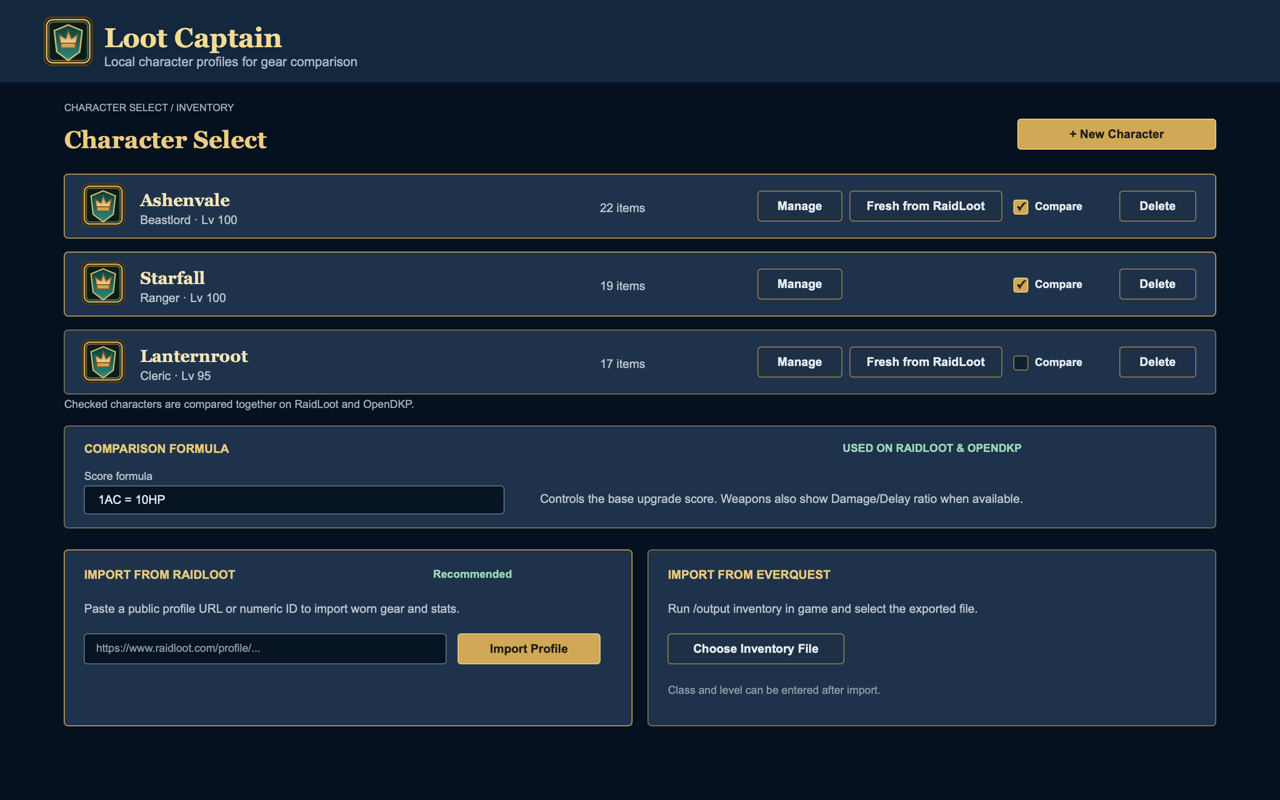
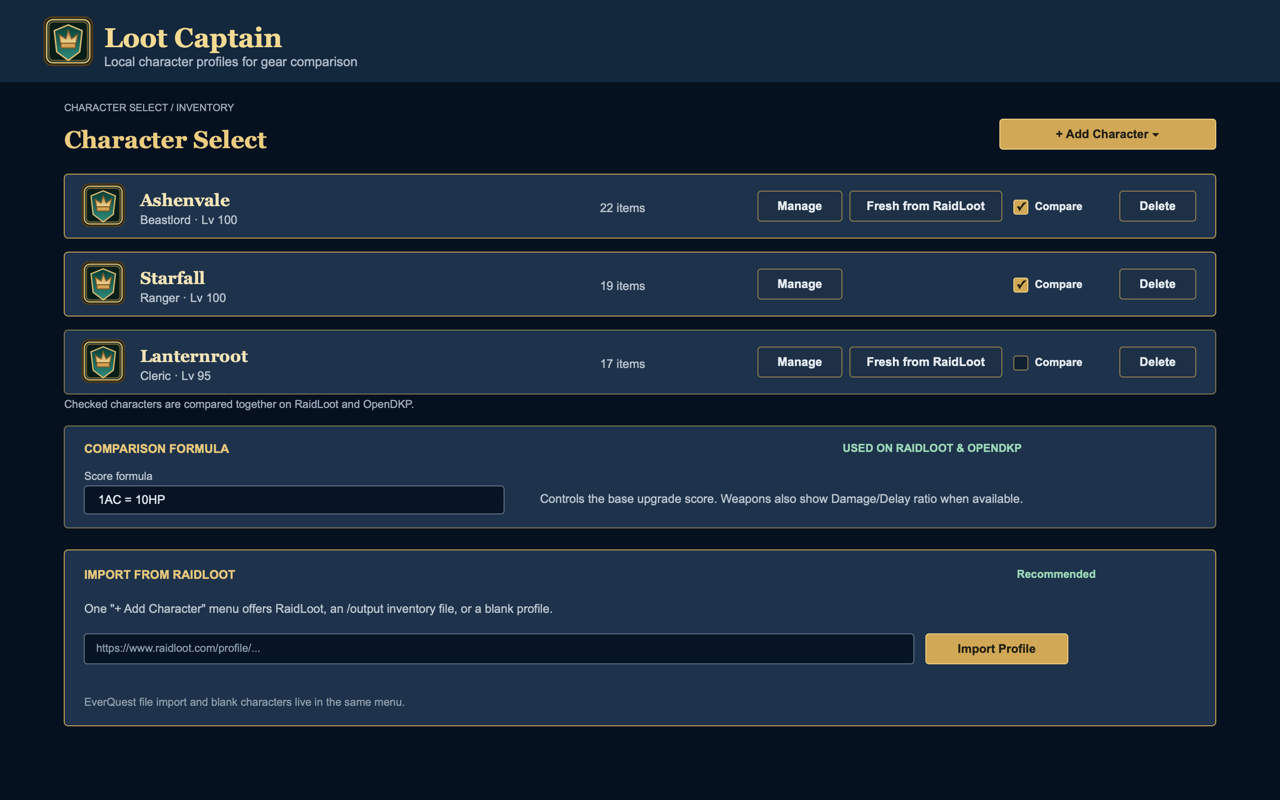
Prepare v0.5.0 release
Bump the manifest to 0.5.0 and refresh the release material for the
character estimates, wishlist scoring, and Add Character menu work.

The character-select store screenshot still showed the + New Character
button and the two side-by-side RaidLoot/EverQuest import cards; it now
shows the single + Add Character menu button and the shared import
panel the menu opens.

The store listing's What's new section covers the feature work since
v0.4.0: character scoring and reference stat estimates with the AA
checklist and projection panel, source-backed DPS models and
validation, tank and healer estimates, and the consolidated Add
Character menu.

dist/ holds the v0.5.0 archive; package-extension.sh pruned v0.3.0 to
keep only the newest two.

diff --git a/tools/generate_store_visuals.swift b/tools/generate_store_visuals.swift
@@ -301,7 +301,7 @@ let characterSelectImage = newImage(width: 1280, height: 800) {
     drawText("Local character profiles for gear comparison", x: 104, y: 54, size: 13, fill: color("#9eacbc"))
     drawText("CHARACTER SELECT / INVENTORY", x: 64, y: 102, size: 10, fill: color("#8e9daf"))
     drawText("Character Select", x: 64, y: 126, size: 24, fill: color("#e6c26d"), bold: true, serif: true)
-    drawButton(x: 1018, y: 119, width: 198, label: "+ New Character", primary: true)
+    drawButton(x: 1000, y: 119, width: 216, label: "+ Add Character \u{25BE}", primary: true)
     // Rows carry a Compare toggle rather than a single active character:
     // every checked profile is compared on RaidLoot and OpenDKP.
     let profiles: [(String, String, String, Bool, Bool)] = [
@@ -329,18 +329,16 @@ let characterSelectImage = newImage(width: 1280, height: 800) {
     drawRect(NSRect(x: 84, y: 486, width: 420, height: 28), fill: color("#07101b"), stroke: color("#4b5b70"), radius: 3)
     drawText("1AC = 10HP", x: 98, y: 493, size: 12, fill: color("#dfe6ef"))
     drawText("Controls the base upgrade score. Weapons also show Damage/Delay ratio when available.", x: 540, y: 492, size: 12, fill: color("#aeb8c5"))
-    drawRect(NSRect(x: 64, y: 550, width: 568, height: 176), fill: color("#17263a"), stroke: color("#b08b44"), radius: 4)
+    // The two import cards collapsed into one shared panel opened from the
+    // "+ Add Character" menu; the menu offers RaidLoot, EverQuest, and blank.
+    drawRect(NSRect(x: 64, y: 550, width: 1152, height: 176), fill: color("#17263a"), stroke: color("#b08b44"), radius: 4)
     drawText("IMPORT FROM RAIDLOOT", x: 84, y: 568, size: 12, fill: color("#e1bd69"), bold: true)
-    drawText("Recommended", x: 512, y: 568, size: 11, fill: color("#8bd0a9"), bold: true, align: .right)
-    drawText("Paste a public profile URL or numeric ID to import worn gear and stats.", x: 84, y: 602, size: 12, fill: color("#aeb8c5"))
-    drawRect(NSRect(x: 84, y: 634, width: 362, height: 30), fill: color("#07101b"), stroke: color("#4b5b70"), radius: 3)
+    drawText("Recommended", x: 1096, y: 568, size: 11, fill: color("#8bd0a9"), bold: true, align: .right)
+    drawText("One \"+ Add Character\" menu offers RaidLoot, an /output inventory file, or a blank profile.", x: 84, y: 602, size: 12, fill: color("#aeb8c5"))
+    drawRect(NSRect(x: 84, y: 634, width: 830, height: 30), fill: color("#07101b"), stroke: color("#4b5b70"), radius: 3)
     drawText("https://www.raidloot.com/profile/...", x: 96, y: 642, size: 11, fill: color("#7d8c9c"))
-    drawButton(x: 458, y: 634, width: 142, label: "Import Profile", primary: true)
-    drawRect(NSRect(x: 648, y: 550, width: 568, height: 176), fill: color("#17263a"), stroke: color("#6e603f"), radius: 4)
-    drawText("IMPORT FROM EVERQUEST", x: 668, y: 568, size: 12, fill: color("#e1bd69"), bold: true)
-    drawText("Run /output inventory in game and select the exported file.", x: 668, y: 602, size: 12, fill: color("#aeb8c5"))
-    drawButton(x: 668, y: 634, width: 176, label: "Choose Inventory File")
-    drawText("Class and level can be entered after import.", x: 668, y: 684, size: 11, fill: color("#7f8d9d"))
+    drawButton(x: 926, y: 634, width: 142, label: "Import Profile", primary: true)
+    drawText("EverQuest file import and blank characters live in the same menu.", x: 84, y: 696, size: 11, fill: color("#7f8d9d"))
 }
 
 let raidLootImage = newImage(width: 1280, height: 800) {

diff --git a/docs/store-listing.md b/docs/store-listing.md
@@ -26,15 +26,15 @@ Profiles and settings stay in browser-local storage. Loot Captain has no account
 
 Support ongoing development: https://github.com/sponsors/jxmtoma
 
-### What's new in 0.4.0
+### What's new in 0.5.0
 
-- Equip an item into a local character profile from its comparison row on RaidLoot or OpenDKP, with an inline confirmation naming both items. An item the profile already holds shows as equipped instead, and the character editor offers a one-step undo of the most recent equip. This updates Loot Captain's stored profile only; it does not change the character in EverQuest.
-- Moved the wishlist into the character editor's inventory tab strip, shown as a game-style slot grid or a plain list.
-- Replaced the options page's single active character with a per-row Compare checkbox that shares the popup's selection, added a "Fresh from RaidLoot" button on rows imported from a RaidLoot profile, and dropped deleted characters from the compare selection.
-- Extended the statless armor-token catalog back to Planes of Power: 357 to 630 offline mappings adding PoP, GoD, OoW, PoR, TSS, UF, HoT and VoA. PoP and TSS templates are scoped to an armor type rather than every class, so a token a class cannot use is refused instead of resolving to the wrong piece.
-- Compare panels, wishlist panels, and pickers now close when clicking elsewhere on the page, while the wishlist character picker stays open while characters are selected.
+- One "+ Add Character" menu on the options page now offers all three ways to add a character: import from RaidLoot (recommended), import from an EverQuest `/output inventory` file, and a blank new character. The two separate import cards are gone.
+- Added optional, clearly labeled reference estimates next to the preference score: a melee DPS estimate for melee classes, partial physical survivability estimates for level-100 Warriors, Paladins and Shadowknights, and partial direct-heal estimates for level-100 Clerics, Druids and Shamans. Every estimate shows its assumptions, uses one shared editable scenario per character, and stays separate from the preference score. Viewing an estimate saves nothing.
+- Added an AA checklist and character-stat projection panel in the character editor, with optional snapshots and local observation/approval records.
+- Versioned per-character score formulas and role preference presets with weighted contribution breakdowns; incomplete weighted inputs never produce a numeric score.
+- Faycite augments are excluded from all estimate models; their numeric stats and effects cannot affect the estimates.
 
-The armor catalog uses offline, source-reviewed definitions; it does not use a live crawler or request new permissions. Incomplete or unavailable RaidLoot sets remain unresolved. This release adds no permissions and no new hosts.
+The armor catalog and estimates use offline, source-reviewed definitions; they do not use a live crawler or request new permissions. Incomplete or unavailable RaidLoot sets remain unresolved. This release adds no permissions and no new hosts.
 
 ### Category and language
 
@@ -84,11 +84,11 @@ The repository includes current, correctly sized PNGs in `store-assets/`:
 
 The store icon is `icons/icon128.png`. A YouTube promotional video link remains a manual listing step because no video is included in this repository.
 
-## Release submission checklist for 0.4.0
+## Release submission checklist for 0.5.0
 
 - Run `node tests/regression.js`.
 - Run `python3 tools/generate_armor_token_catalog.py --check`.
 - Run `swift tools/generate_store_visuals.swift` from the repository root when the UI changed, and re-upload the refreshed screenshots.
-- Run `./tools/package-extension.sh` and confirm `dist/loot-captain-v0.4.0.zip`. The script keeps only the newest two archives, so the previous release stays available to roll back to.
+- Run `./tools/package-extension.sh` and confirm `dist/loot-captain-v0.5.0.zip`. The script keeps only the newest two archives, so the previous release stays available to roll back to.
 - Load unpacked for a smoke test, profile switch, and variant check before manually uploading to the Chrome Web Store / Edge.
 - Verify the hosted privacy policy before submission.
